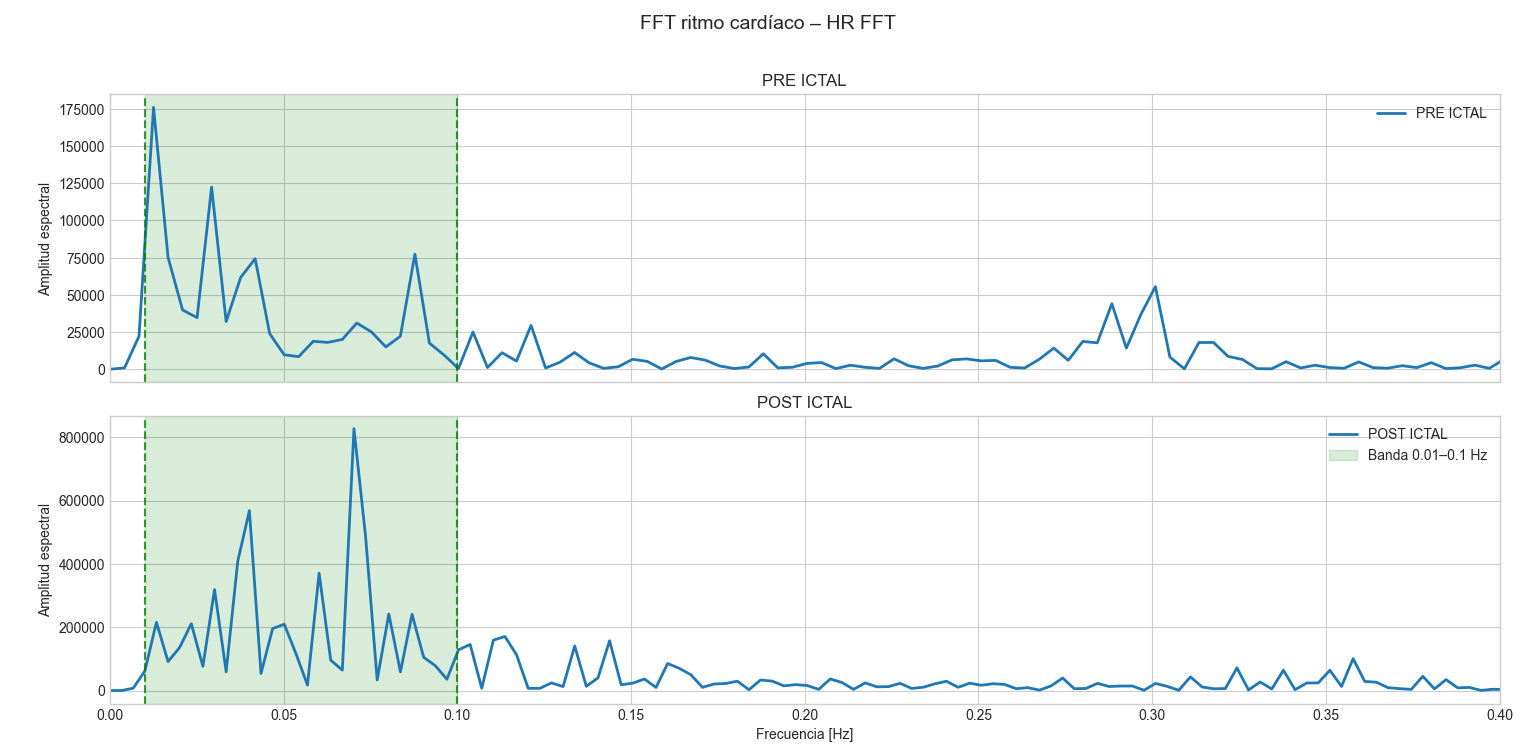
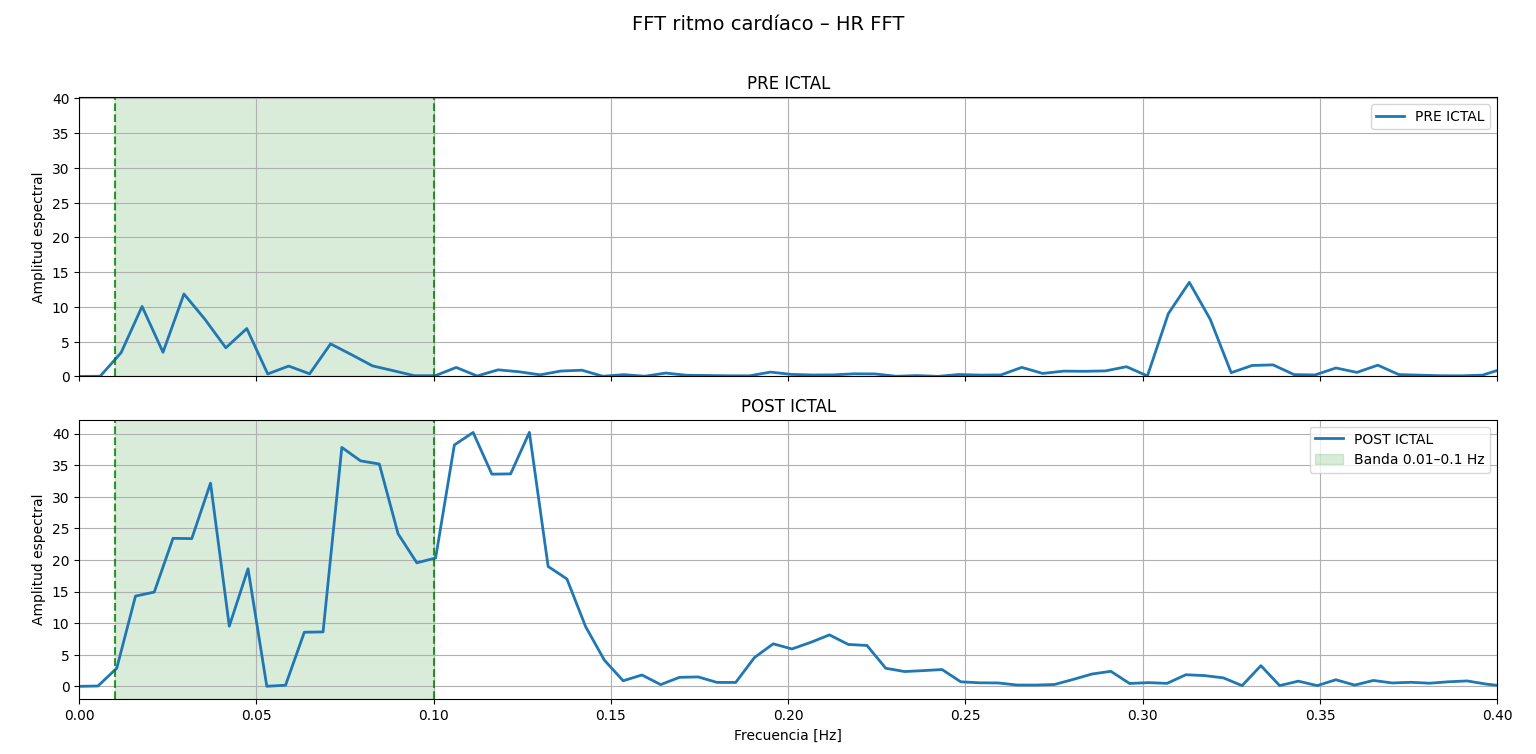
.

diff --git a/rr_hr.py b/rr_hr.py
@@ -7,37 +7,59 @@ Created on Thu Feb 19 17:51:38 2026
 import matplotlib.pyplot as plt
 from scipy.interpolate import interp1d
 import numpy as np
+import filtrado_ecg
 # %% Construccion temporal de HR a partir de latidos R (RR) y su interpolacion uniforme para FFT/PSD
 
 import numpy as np
 import matplotlib.pyplot as plt
 
+import numpy as np
+import matplotlib.pyplot as plt
+from scipy.signal import medfilt
+
 def const_RR(latidos, mostrar=False):
-    latidos = np.asarray(latidos)#paso latidos a array
-    rr_vect= np.diff(latidos)
-    hr = 60/rr_vect 
-    t_hr = latidos[:-1] + rr_vect/2  #[:-1] --> Toma todos menos el último
+    
+    latidos = np.asarray(latidos) #lo convierto en array por las dudas
+   
+    # RR y HR
+    rr = np.diff(latidos)
+    hr = 60 / rr
+    t_hr = latidos[:-1] + rr / 2  
+
+    # Filtrado de mediana (ventana corta) p/ eliminacion de spikes
+    rr_clean = medfilt(rr, kernel_size=5)
+    hr_clean = medfilt(hr, kernel_size=5)
+
     if mostrar:
-       plt.figure(figsize=(12, 8))
-       # Subplot 1: RR
-       plt.subplot(2, 1, 1)
-       plt.plot(rr_vect, label='Segmentos RR')
-       plt.xlabel('# Indice de latido')
-       plt.ylabel('RR [s]')
-       plt.grid(True)
-       plt.legend()
-       #plt.title("Construcción del vector RR")
-       
-       plt.subplot(2, 1, 2)
-       plt.plot(t_hr,hr, label='Frecuencia cardiaca')
-       plt.xlabel('Tiempo [s]')
-       plt.ylabel('HR [bpm]')
-       plt.grid(True)
-       plt.legend()
-       plt.title('Frecuencia cardiaca a partir de RR')
-       plt.tight_layout()
-       plt.show()
-    return rr_vect, hr, t_hr
+        fig, axs = plt.subplots(2, 1, figsize=(12, 7), sharex=True)
+
+        # ----- RR -----
+        axs[0].plot(t_hr, rr, color='gray', alpha=0.6,
+                    label='RR original (detección automática)')
+        axs[0].plot(t_hr, rr_clean, color='blue', linewidth=2,
+                    label='RR filtrado (mediana, W=5)')
+        axs[0].set_ylabel('RR [s]')
+        axs[0].set_title('Eliminación de artefactos en RR y HR mediante filtro de mediana')
+        axs[0].grid(True)
+        axs[0].legend()
+
+        # ----- HR -----
+        axs[1].plot(t_hr, hr, color='gray', alpha=0.6,
+                    label='HR original (detección automática)')
+        axs[1].plot(t_hr, hr_clean, color='blue', linewidth=2,
+                    label='HR filtrada (mediana, W=5)')
+        axs[1].set_xlabel('Tiempo [s]')
+        axs[1].set_ylabel('Frecuencia cardíaca [bpm]')
+        
+        axs[1].grid(True)
+        axs[1].legend()
+
+        plt.tight_layout()
+        plt.show()
+
+    return rr_clean, hr_clean, t_hr
+
+
 def chequeo (t_hr, hr, t_pre, hr_pre, t_post, hr_post, seizure_time):
     plt.figure(figsize=(12,4))
     plt.plot(t_hr, hr, label='HR total', alpha=0.4)

diff --git a/trabajo_final_21.py b/trabajo_final_21.py
@@ -19,18 +19,18 @@ import rr_hr
 def analizar_paciente(record_name):
 
     # %% lectura de archivo
-    ecg, t, fs, seizure_times, r_peaks = leer_archivo.leer_archivo(record_name)
+    ecg, t, fs, seizure_times, r_peaks = leer_archivo.leer_archivo(record_name, False)
 
-    # %% construccion intervalos RR y frecuencia cardiaca 
+    # %% construccion intervalos RR y frecuencia cardiaca + filtro de mediana
     rr, hr, t_hr=rr_hr.const_RR(r_peaks)
 
     # %% definicion ventana preictal y postictal
-    ventana_pre = [seizure_times[0][0] - 240, seizure_times[0][0]-120]
+    ventana_pre = [seizure_times[0][0] - 240, seizure_times[0][0]-70]
     mask_pre = (t_hr >= ventana_pre[0]) & (t_hr <= ventana_pre[1])
     hr_pre = hr[mask_pre]
     t_pre = t_hr[mask_pre]
 
-    ventana_post = [seizure_times[0][1]+120, seizure_times[0][1] + 300]
+    ventana_post = [seizure_times[0][1]+60, seizure_times[0][1] + 250]
     mask_post = (t_hr >= ventana_post[0]) & (t_hr <= ventana_post [1])
     hr_post = hr[mask_post]
     t_post = t_hr[mask_post]
@@ -38,6 +38,9 @@ def analizar_paciente(record_name):
     #rr_hr.chequeo(t_hr, hr, t_pre, hr_pre, t_post, hr_post, seizure_times)
 
     # %% detrend polinomio
+    #hr_med= filtrado_ecg.filtro_mediana(hr, t_hr)
+
+
     # TOTAL
     tu, hr_u, hr_dt, trend = filtrado_ecg.interp_y_detrend(t_hr, hr)
     # PRE
@@ -47,12 +50,12 @@ def analizar_paciente(record_name):
 
     # %% Espectro
     # por FFT
-    ff_pre_fft, psd_pre_fft= periodograma.transformada_rapida(hr_pre_dt, "FFT HR det pre")
-    ff_post_fft, psd_post_fft= periodograma.transformada_rapida(hr_post_dt, "FFT HR det post")
+    #ff_pre_fft, psd_pre_fft= periodograma.transformada_rapida(hr_pre_dt, "FFT HR det pre")
+    #ff_post_fft, psd_post_fft= periodograma.transformada_rapida(hr_post_dt, "FFT HR det post")
 
     # Welch
-    ff_pre_welch, psd_pre_welch= periodograma.welch_psd(hr_pre_dt)
-    ff_post_welch, psd_post_welch= periodograma.welch_psd(hr_post_dt)
+    #ff_pre_welch, psd_pre_welch= periodograma.welch_psd(hr_pre_dt)
+    #ff_post_welch, psd_post_welch= periodograma.welch_psd(hr_post_dt)
 
     # Resultados finales
     #periodograma.presentacion_datos(ff_pre_fft, psd_pre_fft, ff_post_fft, psd_post_fft, name="PSD HR FFT")
@@ -60,7 +63,6 @@ def analizar_paciente(record_name):
 
     # HR ya interpolada y detrendeada
     f_pre, P_pre, f_post, P_post = periodograma.fft_pre_post(hr_pre_dt, hr_post_dt)
-    
     return f_pre, P_pre, f_post, P_post, hr_dt, seizure_times, tu
    
 

diff --git a/filtrado_ecg.py b/filtrado_ecg.py
@@ -10,11 +10,39 @@ Created on Thu Feb 19 10:42:10 2026
 import numpy as np
 import matplotlib.pyplot as plt
 from scipy import signal 
-from scipy.signal import sosfiltfilt,  iirdesign, sosfreqz
+from scipy.signal import sosfiltfilt,  iirdesign, sosfreqz, medfilt
 from scipy.interpolate import CubicSpline
 
 
-# %% Detrend polinomio grado 4
+def filtro_mediana (x, t, mostrar= False): #filtro de mediana para eliminar los outliers en hr
+
+    # Primera etapa: mediana con ventana 200 (aproximada con 201)
+    s_med_200 = medfilt(x, kernel_size=201)
+
+    # Segunda etapa: mediana con ventana 600 (aproximada con 601)
+    b = medfilt(s_med_200, kernel_size=601)
+
+    # Señal corregida (opcional)
+    HR_detrended = x - b
+
+    if mostrar:
+        plt.figure(figsize=(10, 6))
+
+        plt.plot(t, x, color='gray', alpha=0.6, label='Señal original $s(n)$')
+        plt.plot(t, b, color='red', linewidth=2, label='Baseline estimada $\\hat{b}(n)$')
+        plt.plot(t, HR_detrended, color='blue', linewidth=1, label='Señal corregida $s(n)-\\hat{b}(n)$')
+
+        plt.xlabel('Muestras (n)')
+        plt.ylabel('Amplitud')
+        plt.title('Eliminación de outliers mediante filtrado de mediana en cascada')
+        plt.legend()
+        plt.grid(True)
+
+        plt.tight_layout()
+        plt.show()
+
+    return HR_detrended
+
 
 def interp_y_detrend(t, x, fs=4.0, deg=4, method="cubic", mostrar= False):
     """ 

diff --git a/periodograma.py b/periodograma.py
@@ -34,7 +34,7 @@ def fft_pre_post(
         f = np.fft.fftfreq(N, d=1/fs)
 
         mask = f >= 0
-        return f[mask], np.abs(X[mask])**2
+        return f[mask], np.abs(X[mask])**2 /(N * fs)
 
     # FFT
     f_pre, P_pre = _fft(x_pre)
@@ -70,7 +70,7 @@ def fft_pre_post(
         axs[0].axvspan(f_lo, f_hi, color="green", alpha=0.15)
         axs[0].axvline(f_lo, color="green", linestyle="--", alpha=0.8)
         axs[0].axvline(f_hi, color="green", linestyle="--", alpha=0.8)
-        #axs[0].set_ylim(ylim)
+        axs[0].set_ylim(ylim)
         axs[0].set_title("PRE ICTAL")
         axs[0].grid(True)
         axs[0].legend()
